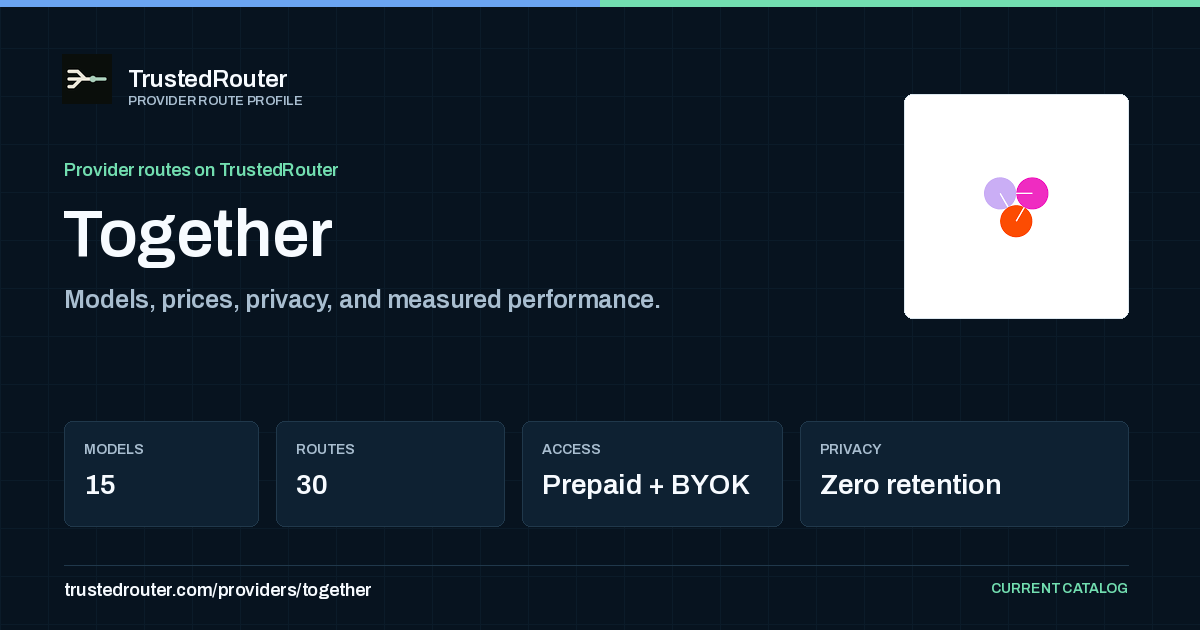
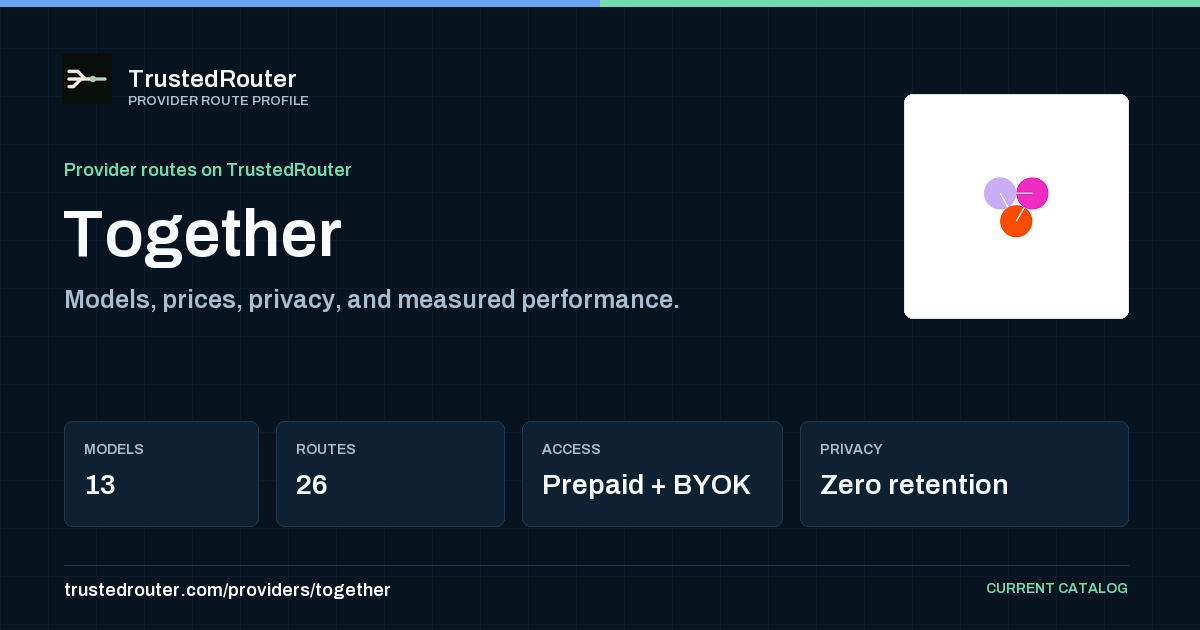
Fix recurring Together catalog refresh failure

diff --git a/scripts/pricing/providers/together.py b/scripts/pricing/providers/together.py
@@ -50,13 +50,11 @@ MANIFEST_PATH = (
     / "together.json"
 )
 
-# Model IDs we expect Together to expose, in OR-canonical form. Parser
-# below translates Together's native IDs to these. These are the
-# canaries for hourly pricing drift: if Together renames or drops one,
-# the refresh job should keep the previous committed price instead of
-# silently deleting the endpoint from the catalog.
+# Curated models that Together has occasionally omitted from its serverless
+# endpoint feed while they remain callable. Probe only these known feed gaps;
+# every other route follows the authenticated feed and the normal two-miss
+# tombstone policy so provider retirements cannot leave stale routes behind.
 EXPECTED_MODELS = [
-    "deepseek/deepseek-v4-pro",
     "minimax/minimax-m3",
     "z-ai/glm-5.2",
 ]
@@ -266,10 +264,9 @@ def fetch() -> ProviderPricingResult:
             "no started Together serverless models matched the TrustedRouter "
             "catalog — check both provider API responses"
         )
-    # Validate strictly: Together is a direct JSON API, not a brittle
-    # HTML scraper. If a canary model disappears, treat this provider
-    # as failed so refresh.py reuses the previous committed prices
-    # instead of dropping live endpoints from the catalog.
+    # Together is a direct JSON API, not a brittle HTML scraper. Validation
+    # still rejects malformed prices and newly required routes, while expected
+    # model misses are retirement signals handled by manifest reconciliation.
     errors = validate(prices, EXPECTED_MODELS)
     if errors:
         notes.append(f"validation notes: {errors}")

diff --git a/tests/test_catalog_prepaid_display.py b/tests/test_catalog_prepaid_display.py
@@ -103,13 +103,12 @@ def test_together_credits_follow_started_serverless_manifest() -> None:
         for e in MODEL_ENDPOINTS.values()
         if e.provider == "together" and e.usage_type == "Credits"
     }
-    assert together_credits <= allow
-    assert {
-        "minimax/minimax-m3",
-        "moonshotai/kimi-k2.7-code",
-        "z-ai/glm-5.2",
-        "intfloat/multilingual-e5-large-instruct",
-    } <= together_credits
+    # Together's authenticated feed changes as serverless models start and
+    # retire. The generated manifest is the availability contract; freezing a
+    # transient model ID here blocks every later catalog refresh after its
+    # provider-confirmed retirement.
+    assert together_credits
+    assert together_credits == allow
     assert "meta-llama/llama-3.1-70b-instruct" not in together_credits
 
 

diff --git a/tests/test_together_pricing.py b/tests/test_together_pricing.py
@@ -392,7 +392,10 @@ def test_together_pricing_is_on_hourly_refresh_path() -> None:
     assert "0 * * * *" in workflow
     assert "trustedrouter-together-api-key" in workflow
     assert "TOGETHER_API_KEY" in workflow
-    assert "deepseek/deepseek-v4-pro" in together.EXPECTED_MODELS
+    assert "minimax/minimax-m3" in together.EXPECTED_MODELS
+    assert "z-ai/glm-5.2" in together.EXPECTED_MODELS
+    assert "deepseek/deepseek-v4-pro" not in together.EXPECTED_MODELS
+    assert "moonshotai/kimi-k2.7-code" not in together.EXPECTED_MODELS
     assert "SERVERLESS_ENDPOINTS_URL" in vars(together)
 
 
